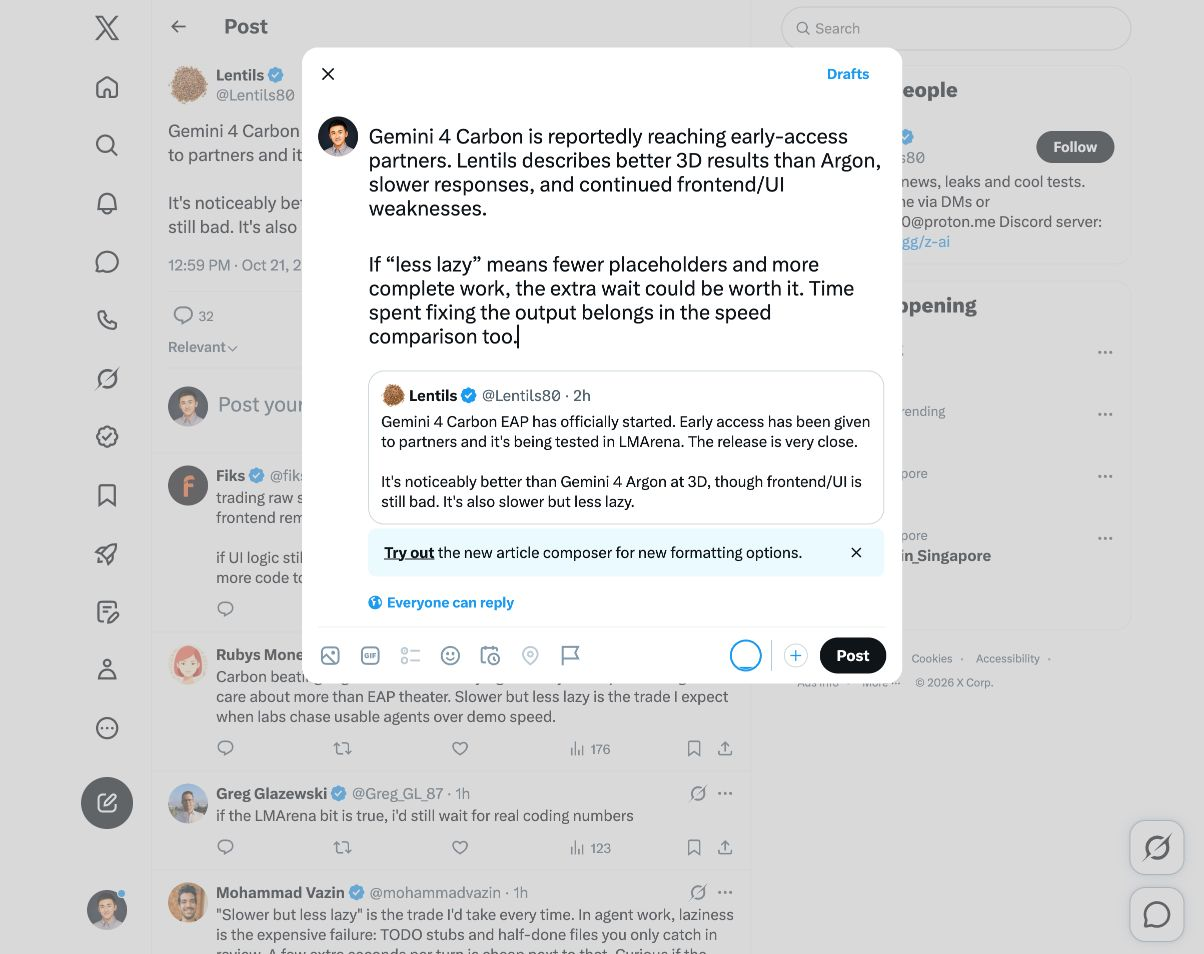
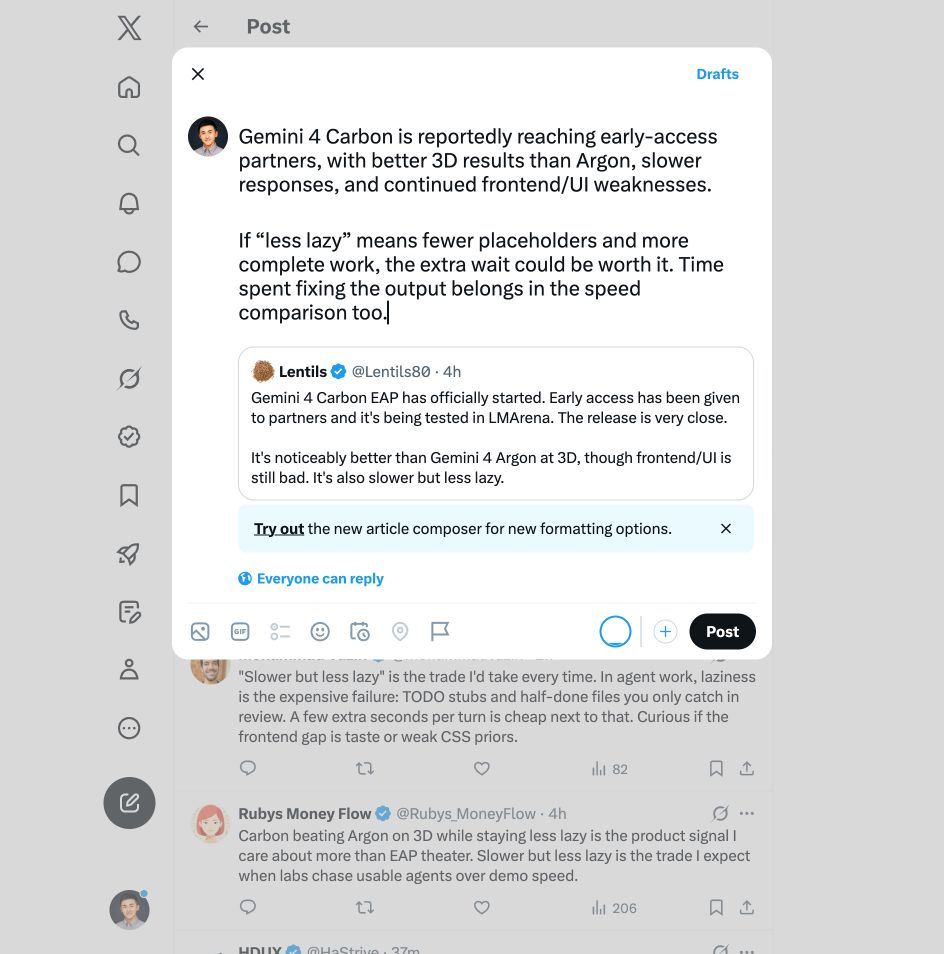
Record Quote preference against redundant source lead-ins

diff --git a/AGENTS.md b/AGENTS.md
@@ -86,7 +86,9 @@ Keep fact ownership accurate. A video playing does not prove the showcased appli
 
 For standalone adaptations, do not automatically add the supplied blogger's name, handle, source-post link, or “Translated from,” “Adapted from,” “Inspired by,” and similar credits. Do not restore attribution or wording the user removed. Keep source tracing in research records.
 
-This does not remove necessary factual attribution such as “the company says” or “in the evaluator's tests.” It also does not mean hiding the author in a genuine evidence screenshot, stripping an original watermark, or removing the visible source identity from a requested native Quote Post. Relevant official product, documentation, or GitHub links can be included for reader value; they are different from unsolicited source-blogger credits.
+For native Quote Posts, the quoted card already identifies the source. Do not repeat that author in commentary with lead-ins such as “According to [author],” “[author] reports,” “[author] describes,” “据某某的消息,” or equivalent source-name/handle credits. Lead directly with the substance and the added judgment. Preserve necessary uncertainty in the claim itself with wording such as “reportedly” or a conditional; do not turn an unverified report into a confirmed fact. Apply the same rule to Chinese review translations, and do not restore source credits the user removed.
+
+Keep factual attribution when it distinguishes a company, evaluator, or other actor responsible for a separate claim or test; this is different from redundantly naming the author of the quoted post. Preserve the author in a genuine evidence screenshot, original watermarks, and the visible source identity in a native Quote card. Relevant official product, documentation, or GitHub links can be included for reader value; they are different from unsolicited source-blogger credits.
 
 Public copy should focus on the subject, useful information, and the author's judgment. Do not automatically append explanations about how material was sourced, reposted, translated, edited, generated, or prepared. Keep provenance, media-processing history, sourcing limitations, verification notes, and compliance with the user's instructions in research records and user-facing review notes, separate from publishable text, captions, graphics, and ALT.
 

diff --git a/output/gemini4-carbon-eap/research.md b/output/gemini4-carbon-eap/research.md
@@ -8,7 +8,7 @@ Prepared on 2026-10-21, Asia/Singapore. Status: awaiting final-content approval;
 - Exact original / native Quote target: https://x.com/Lentils80/status/2112770669549068684
 - Destination: @LeoGuoLabs, verified in the live built-in browser account menu.
 - Read the Chinese original using Show original, then followed the native quoted card to Lentils. The original has no nested Quote, external supporting link, image, or video. Text-only native Quote is appropriate; no decorative asset or ALT is needed.
-- The Chinese intermediary says enterprise users can already use Carbon. Lentils says early-access partners, which is narrower. The draft preserves the narrower scope and attributes the report.
+- The Chinese intermediary says enterprise users can already use Carbon. Lentils says early-access partners, which is narrower. The draft preserves the narrower scope and marks the claims as reported; the native Quote card provides source identity.
 
 ## Original post
 
@@ -38,3 +38,7 @@ Read the initially loaded relevant conversation. No supporting author continuati
 No matching source IDs or Carbon topic records were found in output before preparation. Fetched origin/main and fast-forwarded from 4ae61f0 to 02f96a8 before writing. Existing unrelated output/SolarSystem-deepseek/ was preserved.
 
 The final text is post.txt. The live native Quote composer and its proof are recorded in publication-record.json and research/composer-ready.jpg. Publication requires the user's approval of this concrete version under AGENTS.md.
+
+## User correction, 2026-10-21
+
+The user rejected redundant source-name lead-ins in native Quote commentary, using “据 Lentils 的消息” as the example, and asked to save this as a standing preference. Removed “Lentils describes” from the current draft; “reportedly” continues to qualify the report. Apply this to both English public copy and Chinese review translations. This correction does not authorize publication. The initial version remains in Git commit 039e0a5; refreshed composer evidence corresponds to the revised post.txt.
